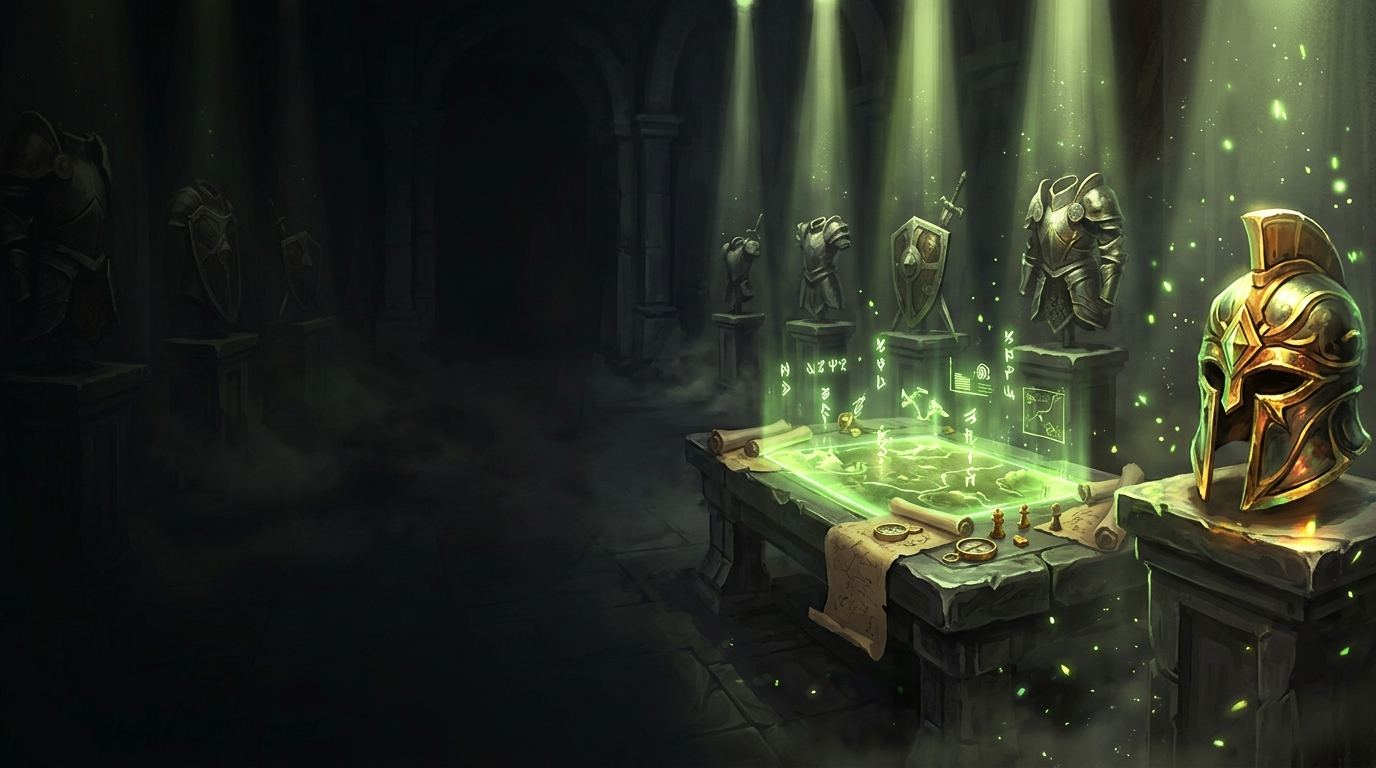
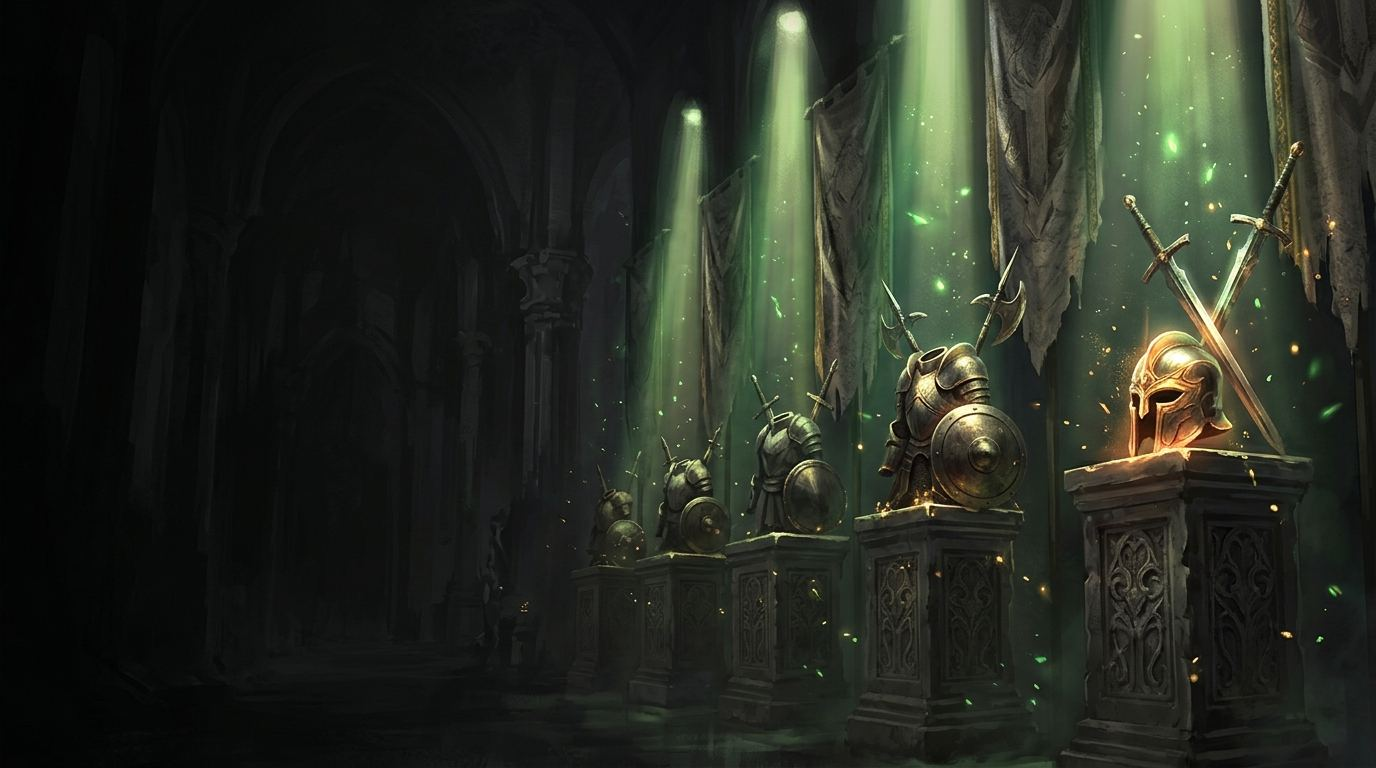
Topo mostra a arte inteira, imagem própria do Jogadores e ajustes no celular
- Arte 16:9 completa no topo (à direita no computador, em cima no celular)
- Nova imagem de fundo para a aba Jogadores (Google Flow)
- Títulos longos cabem numa linha no celular
- Corrige rolagem lateral das abas no celular

diff --git a/docs/index.html b/docs/index.html
@@ -543,6 +543,34 @@ img { max-width: 100%; }
 .mvp .brand-ico { display: none; }
 @media (max-width: 820px) { .mvp .brand-full { display: none; } .mvp .brand-ico { display: block; width: 34px; height: 34px; } }
 .mvp .hero-txt .reservado { visibility: hidden; }
+@media (max-width: 600px) { .mvp .hero-title.longo { font-size: min(8.4vw, 44px); white-space: nowrap; } }
+
+/* topo mostrando a arte inteira (16:9) à direita, com o lado esquerdo escuro para o título */
+.mvp .top.hero-g { background: radial-gradient(55% 120% at 88% 45%, rgba(133,253,5,.10), transparent 70%), #0b1117;
+  min-height: 360px; display: flex; flex-direction: column; justify-content: flex-end; }
+.mvp .top.hero-g::before { content: ""; position: absolute; top: 0; right: 0; bottom: 6px; aspect-ratio: 16 / 9; max-width: 100%; z-index: -1;
+  background: var(--hero-img, url("img/hero-agora.jpg")) center / cover no-repeat;
+  -webkit-mask-image: linear-gradient(90deg, transparent 0, #000 22%); mask-image: linear-gradient(90deg, transparent 0, #000 22%); }
+.mvp .top.hero-g .hero-in { width: 100%; position: relative; z-index: 1; }
+.mvp .hero-title { text-shadow: -1px 5px 0 rgba(133,253,5,.7), 0 2px 18px rgba(0,0,0,.6); }
+@media (max-width: 820px) {
+  .mvp .top.hero-g { min-height: 0; }
+  .mvp .top.hero-g::before { left: 0; bottom: auto; width: 100%; height: auto; aspect-ratio: 16 / 9;
+    -webkit-mask-image: linear-gradient(180deg, #000 60%, transparent 100%); mask-image: linear-gradient(180deg, #000 60%, transparent 100%); }
+  .mvp .top.hero-g .hero-in { padding-top: calc(56.25vw - 70px); padding-bottom: 26px; }
+}
+@media (max-width: 820px) { .mvp .hero-txt .reservado { display: none; } }
+.mvp .duo { grid-template-columns: minmax(0, 1.4fr) minmax(0, 1fr); }
+@media (max-width: 720px) { .mvp .duo { grid-template-columns: minmax(0, 1fr); } }
+.mvp .spot > div, .mvp .duo > * { min-width: 0; }
+.mvp .spot .badges { flex-wrap: wrap; }
+.mvp .panel-tab { grid-template-columns: minmax(0, 1fr); }
+.mvp .panel-tab > * { min-width: 0; }
+.mvp .two { grid-template-columns: minmax(0, 1fr) minmax(0, 1fr); }
+@media (max-width: 860px) { .mvp .two { grid-template-columns: minmax(0, 1fr); } }
+@media (max-width: 1000px) { .mvp .why-grid { grid-template-columns: minmax(0, 1fr); } }
+.mvp .two > *, .mvp .latest > *, .mvp .scored > *, .mvp .why-grid > * { min-width: 0; }
+.mvp .scored { grid-template-columns: repeat(auto-fill, minmax(min(190px, 100%), 1fr)); }
 </style>
 
 <div class="mvp" lang="pt-BR" data-read>
@@ -1087,7 +1115,7 @@ function abrirAba(nome) {
   (PANEL_DRAWS[nome] || []).forEach((n) => dash.draw(n));
   const ht = document.getElementById('hero-title');
   const lb = document.querySelector(`.mvp [data-tab="${nome}"] span`);
-  if (ht && lb) ht.textContent = lb.textContent;
+  if (ht && lb) { ht.textContent = lb.textContent; ht.classList.toggle('longo', lb.textContent.length > 16); }
   const hero = document.querySelector('.mvp .hero-g');
   if (hero) hero.style.setProperty('--hero-img', `url("img/hero-${nome}.jpg")`);
   // abas com dados de todos os períodos não mostram etiqueta, semana nem seletor

diff --git a/page/index.html b/page/index.html
@@ -509,6 +509,34 @@
 .mvp .brand-ico { display: none; }
 @media (max-width: 820px) { .mvp .brand-full { display: none; } .mvp .brand-ico { display: block; width: 34px; height: 34px; } }
 .mvp .hero-txt .reservado { visibility: hidden; }
+@media (max-width: 600px) { .mvp .hero-title.longo { font-size: min(8.4vw, 44px); white-space: nowrap; } }
+
+/* topo mostrando a arte inteira (16:9) à direita, com o lado esquerdo escuro para o título */
+.mvp .top.hero-g { background: radial-gradient(55% 120% at 88% 45%, rgba(133,253,5,.10), transparent 70%), #0b1117;
+  min-height: 360px; display: flex; flex-direction: column; justify-content: flex-end; }
+.mvp .top.hero-g::before { content: ""; position: absolute; top: 0; right: 0; bottom: 6px; aspect-ratio: 16 / 9; max-width: 100%; z-index: -1;
+  background: var(--hero-img, url("img/hero-agora.jpg")) center / cover no-repeat;
+  -webkit-mask-image: linear-gradient(90deg, transparent 0, #000 22%); mask-image: linear-gradient(90deg, transparent 0, #000 22%); }
+.mvp .top.hero-g .hero-in { width: 100%; position: relative; z-index: 1; }
+.mvp .hero-title { text-shadow: -1px 5px 0 rgba(133,253,5,.7), 0 2px 18px rgba(0,0,0,.6); }
+@media (max-width: 820px) {
+  .mvp .top.hero-g { min-height: 0; }
+  .mvp .top.hero-g::before { left: 0; bottom: auto; width: 100%; height: auto; aspect-ratio: 16 / 9;
+    -webkit-mask-image: linear-gradient(180deg, #000 60%, transparent 100%); mask-image: linear-gradient(180deg, #000 60%, transparent 100%); }
+  .mvp .top.hero-g .hero-in { padding-top: calc(56.25vw - 70px); padding-bottom: 26px; }
+}
+@media (max-width: 820px) { .mvp .hero-txt .reservado { display: none; } }
+.mvp .duo { grid-template-columns: minmax(0, 1.4fr) minmax(0, 1fr); }
+@media (max-width: 720px) { .mvp .duo { grid-template-columns: minmax(0, 1fr); } }
+.mvp .spot > div, .mvp .duo > * { min-width: 0; }
+.mvp .spot .badges { flex-wrap: wrap; }
+.mvp .panel-tab { grid-template-columns: minmax(0, 1fr); }
+.mvp .panel-tab > * { min-width: 0; }
+.mvp .two { grid-template-columns: minmax(0, 1fr) minmax(0, 1fr); }
+@media (max-width: 860px) { .mvp .two { grid-template-columns: minmax(0, 1fr); } }
+@media (max-width: 1000px) { .mvp .why-grid { grid-template-columns: minmax(0, 1fr); } }
+.mvp .two > *, .mvp .latest > *, .mvp .scored > *, .mvp .why-grid > * { min-width: 0; }
+.mvp .scored { grid-template-columns: repeat(auto-fill, minmax(min(190px, 100%), 1fr)); }
 </style>
 
 <div class="mvp" lang="pt-BR" data-read>
@@ -1053,7 +1081,7 @@ function abrirAba(nome) {
   (PANEL_DRAWS[nome] || []).forEach((n) => dash.draw(n));
   const ht = document.getElementById('hero-title');
   const lb = document.querySelector(`.mvp [data-tab="${nome}"] span`);
-  if (ht && lb) ht.textContent = lb.textContent;
+  if (ht && lb) { ht.textContent = lb.textContent; ht.classList.toggle('longo', lb.textContent.length > 16); }
   const hero = document.querySelector('.mvp .hero-g');
   if (hero) hero.style.setProperty('--hero-img', `url("img/hero-${nome}.jpg")`);
   // abas com dados de todos os períodos não mostram etiqueta, semana nem seletor
